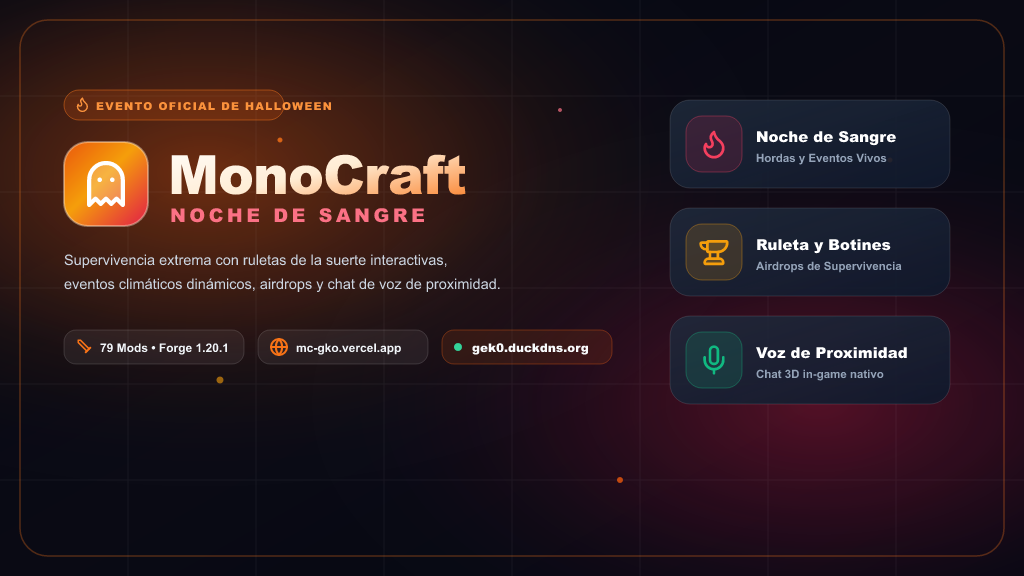
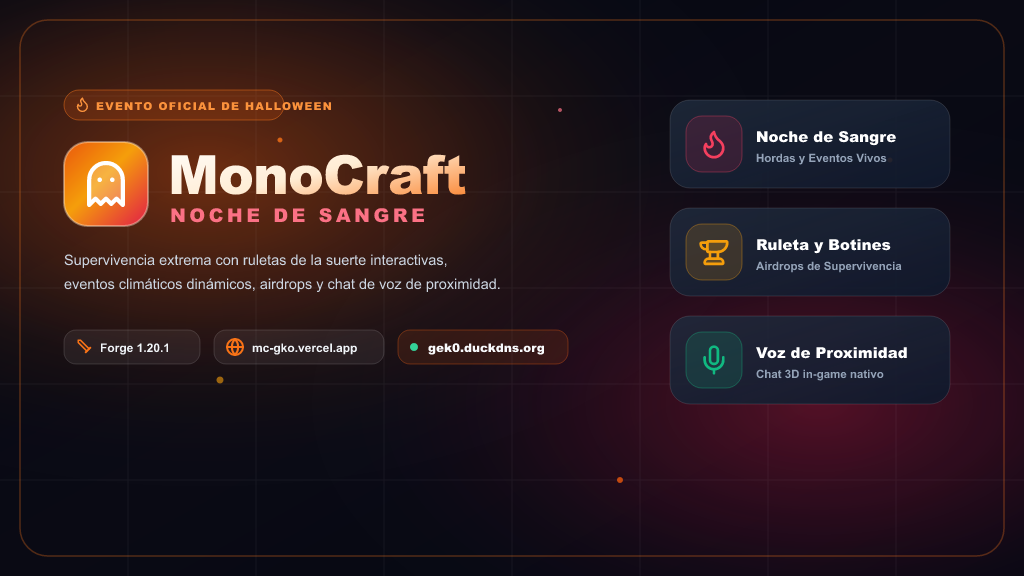
fix(ui): remove hardcoded mod count and display Forge 1.20.1 version across launcher and cover assets

Changed region(s): [[0.0938, 0.5625, 0.5938, 0.6562]]

diff --git a/src/App.tsx b/src/App.tsx
@@ -298,7 +298,7 @@ export default function App() {
             <div className="grid grid-cols-2 gap-2 pt-1 text-[11px]">
               <div className="flex items-center gap-2 bg-white/[0.04] border border-white/10 px-3 py-2 rounded-xl text-slate-300">
                 <Package className="w-3.5 h-3.5 text-orange-400 flex-shrink-0" />
-                <span>79 Mods optimizados</span>
+                <span>Forge 1.20.1</span>
               </div>
               <div className="flex items-center gap-2 bg-white/[0.04] border border-white/10 px-3 py-2 rounded-xl text-slate-300">
                 <Gift className="w-3.5 h-3.5 text-amber-400 flex-shrink-0" />

diff --git a/resources/discord-rpc/cover-render.html b/resources/discord-rpc/cover-render.html
@@ -317,7 +317,7 @@
             <line x1="7" x2="4" y1="17" y2="20"/>
             <line x1="3" x2="5" y1="19" y2="21"/>
           </svg>
-          <span>79 Mods • Forge 1.20.1</span>
+          <span>Forge 1.20.1</span>
         </div>
 
         <div class="info-pill">
